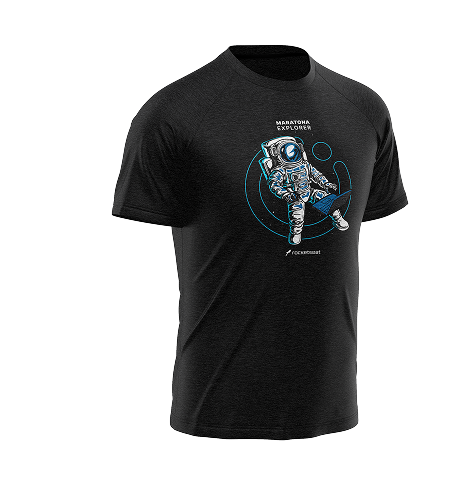
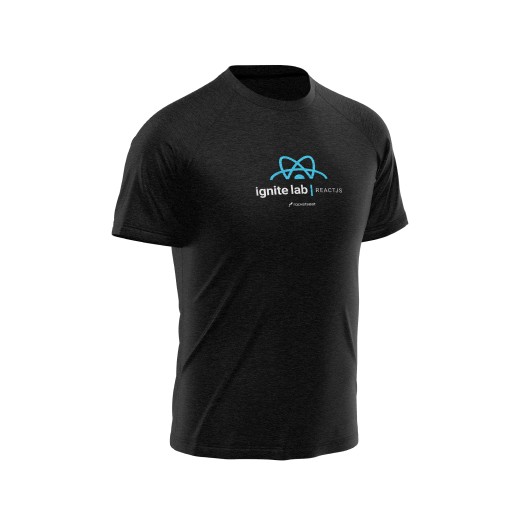
feat: adds SSR(Server Side Rendering) to bring the products from Stripe

diff --git a/src/app/page.tsx b/src/app/page.tsx
@@ -1,66 +1,15 @@
-'use client';
-
-
+import { getServerSideProps } from '@/lib/api';
 import { globalStyles } from '@/styles/global';
-import { HomeContainer, Product } from "@/styles/pages/home";
-import Image from "next/image";
-
-import { useKeenSlider } from 'keen-slider/react'
-
-
-import shirt1 from '../assets/shirts/Shirt1.png'
-import shirt2 from '../assets/shirts/Shirt2.png'
-import shirt3 from '../assets/shirts/Shirt3.png'
+import Home from './home' 
 
 import 'keen-slider/keen-slider.min.css'
 
 globalStyles();
 
-export default function Home() {
-  const [sliderRef] = useKeenSlider({
-    slides: {
-      perView: 3,
-      spacing: 48
-    }
-  })
-
+export default  async function Page() {
+  const products = await getServerSideProps()
+  
   return (
-    <HomeContainer ref={sliderRef} className='keen-slider'>
-      <Product className='keen-slider__slide'>
-        <Image src={shirt1} width={520} height={480} alt=""/>
-
-        <footer>
-          <strong>Shirt X</strong>
-          <span>$ 70.00</span>
-        </footer>
-      </Product>
-
-      <Product className='keen-slider__slide'>
-        <Image src={shirt2} width={520} height={480} alt=""/>
-
-        <footer>
-          <strong>Shirt X</strong>
-          <span>$ 60.00</span>
-        </footer>
-      </Product>
-
-      <Product className='keen-slider__slide'>
-        <Image src={shirt3} width={520} height={480} alt=""/>
-
-        <footer>
-          <strong>Shirt X</strong>
-          <span>$ 62.00</span>
-        </footer>
-      </Product>
-
-      <Product className='keen-slider__slide'>
-        <Image src={shirt3} width={520} height={480} alt=""/>
-
-        <footer>
-          <strong>Shirt X</strong>
-          <span>$ 62.00</span>
-        </footer>
-      </Product>
-    </HomeContainer>
+    <Home products={products} />
   );
 }

diff --git a/src/app/home.tsx b/src/app/home.tsx
@@ -1,0 +1,43 @@
+'use client';
+
+import { HomeContainer, Product } from "@/styles/pages/home";
+import Image from "next/image";
+import { useKeenSlider } from 'keen-slider/react'
+import 'keen-slider/keen-slider.min.css'
+
+import { globalStyles } from '@/styles/global'
+globalStyles();
+
+interface ProductType {
+  id: string;
+  name: string;
+  imageUrl: string;
+  price: number;
+}
+
+interface HomeProps {
+  products: ProductType[];
+}
+
+export default function Home({ products }: HomeProps) {
+  const [sliderRef] = useKeenSlider({
+    slides: {
+      perView: 3,
+      spacing: 48
+    }
+  })
+
+  return (
+    <HomeContainer ref={sliderRef} className="keen-slider">
+      {products.map(product => (
+        <Product key={product.id} className="keen-slider__slide">
+          <Image src={product.imageUrl} width={520} height={480} alt={product.name} />
+          <footer>
+            <strong>{product.name}</strong>
+            <span>${product.price.toFixed(2)}</span>
+          </footer>
+        </Product>
+      ))}
+    </HomeContainer>
+  )
+}

diff --git a/src/lib/api.ts b/src/lib/api.ts
@@ -1,0 +1,24 @@
+'use server';
+import Stripe from "stripe";
+import { stripe } from "./stripe";
+
+export const getServerSideProps = async () => {
+  const response = await stripe.products.list({
+    expand: ['data.default_price'],
+  });
+
+  console.log('Stripe products response:', response);
+
+  const products = response.data.map(product => {
+    const price = product.default_price as Stripe.Price; 
+
+    return {
+      id: product.id,
+      name: product.name,
+      imageUrl: product.images[0],
+      price: price.unit_amount ? price.unit_amount / 100 : 0,
+    };
+  });
+
+  return products;
+};

diff --git a/src/lib/stripe.ts b/src/lib/stripe.ts
@@ -1,0 +1,8 @@
+import Stripe from "stripe"
+
+export const stripe = new Stripe(process.env.STRIPE_SECRET_KEY!, {
+    apiVersion: '2025-03-31.basil',
+    appInfo: {
+        name: 'Ignite Shop'
+    }
+})
